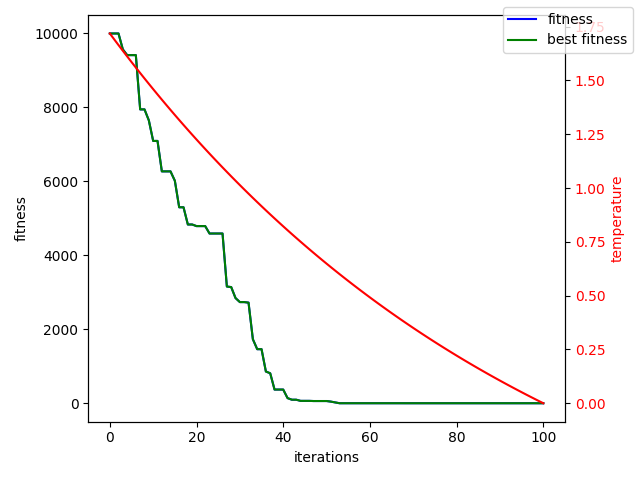
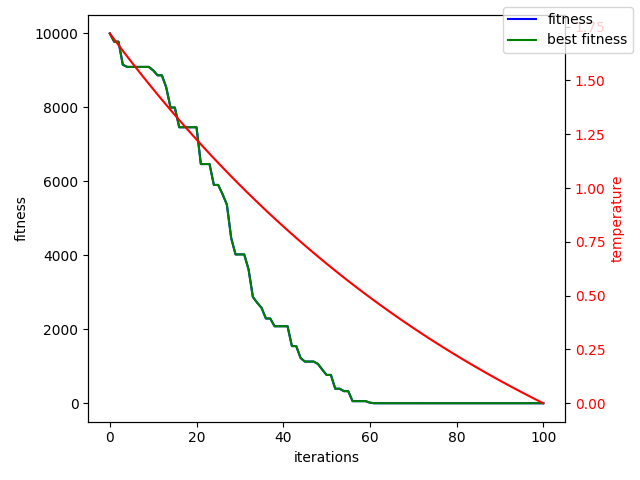
added thermodynamic SA

diff --git a/simulated_annealing.py b/simulated_annealing.py
@@ -23,11 +23,55 @@ def simulated_annealing(init, temp_fn, neighbor_fn, prob_fn, fitness_fn, max_ite
     assert len(solutions) == len(temperatures)
     return solutions, fitnesses, temperatures
 
+def thermodynamic_init_temp(num_samples, high_prob, fitness_fn, random_generator_fn):
+    temps = []
+    for i in range(num_samples):
+        f1 = fitness_fn(random_generator_fn())
+        f2 = fitness_fn(random_generator_fn())
+        temps.append(-abs(f1-f2)*np.log(high_prob))
+    return np.average(np.array(temps))
+
+def thermodynamic_simulated_annealing(init, init_temp, k_A, neighbor_fn, prob_fn, fitness_fn, max_iterations):
+    assert max_iterations > 0
+    s = init
+    solutions = [s] 
+    f = fitness_fn(s)
+    fitnesses = [f]
+    T = init_temp
+    temperatures = [T]
+    total_cost_variation = 0 # delta_C_T
+    total_entropy_variation = 0 # delta S_T
+    for k in range(max_iterations):
+        s_new = neighbor_fn(s)
+        delta_cost = fitness_fn(s_new) - fitness_fn(s) # delta C_k
+        if prob_fn(fitness_fn(s), fitness_fn(s_new), T) >= np.random.random():
+            s = s_new
+            f = fitness_fn(s)
+            total_cost_variation += delta_cost
+        
+        if delta_cost > 0: # update total entropy variation
+            total_entropy_variation = total_entropy_variation - delta_cost/T 
+        
+        if total_cost_variation >= 0 or total_entropy_variation == 0: # use default temp
+            T = init_temp 
+        else:
+            T = k_A*total_cost_variation/total_entropy_variation
+
+        solutions.append(s)
+        fitnesses.append(f)
+        temperatures.append(T)
+    assert len(solutions) == len(temperatures)
+    return solutions, fitnesses, temperatures
+
 def metropolis_hastings_algorithm_probability(e, e_new, T):
     if e_new < e:
         return 1 
     else:
         return np.exp(-(e_new-e)/(T+1e-5))
+
+"""Temperature(x): x in [0,1] starts at 1 and decreases linearly to 0"""
+def exponential_temperature(x, alpha):
+    return np.exp(alpha*x)-1
 
 def print_simulated_annealing(solutions, fitnesses, temperatures, filename):
     fig, ax1 = plt.subplots()

diff --git a/SA_x^2.py b/SA_x^2.py
@@ -1,4 +1,5 @@
-from simulated_annealing import (simulated_annealing, 
+from simulated_annealing import (simulated_annealing, thermodynamic_init_temp, 
+                                 thermodynamic_simulated_annealing,
                                  metropolis_hastings_algorithm_probability, 
                                  print_simulated_annealing)
 import numpy as np
@@ -22,5 +23,14 @@ print("="*80)
 print("Temp(x) = e^x-1")
 sols, fits, temps = simulated_annealing(100, lambda x: np.exp(x)-1, real_neighbor, metropolis_hastings_algorithm_probability, square, 100)
 print_simulated_annealing(sols, fits, temps, "SA_x^2_temp=e^x-1.png")
+print("="*80)
 
-# TODO the thermodynamic temperature function
+def generate_random_number():
+    return np.random.uniform(-100, 100)
+
+high_prob = 0.8
+init_temp = thermodynamic_init_temp(100, high_prob, square, generate_random_number)
+k_A = 0.1
+print(f"Thermodynamic SA init_temp = {init_temp} k_A = {k_A}")
+sols, fits, temps = thermodynamic_simulated_annealing(generate_random_number(), init_temp, k_A, real_neighbor, metropolis_hastings_algorithm_probability, square, 100)
+print_simulated_annealing(sols, fits, temps, "thermodynamic_SA_x^2_kA=1.png")
